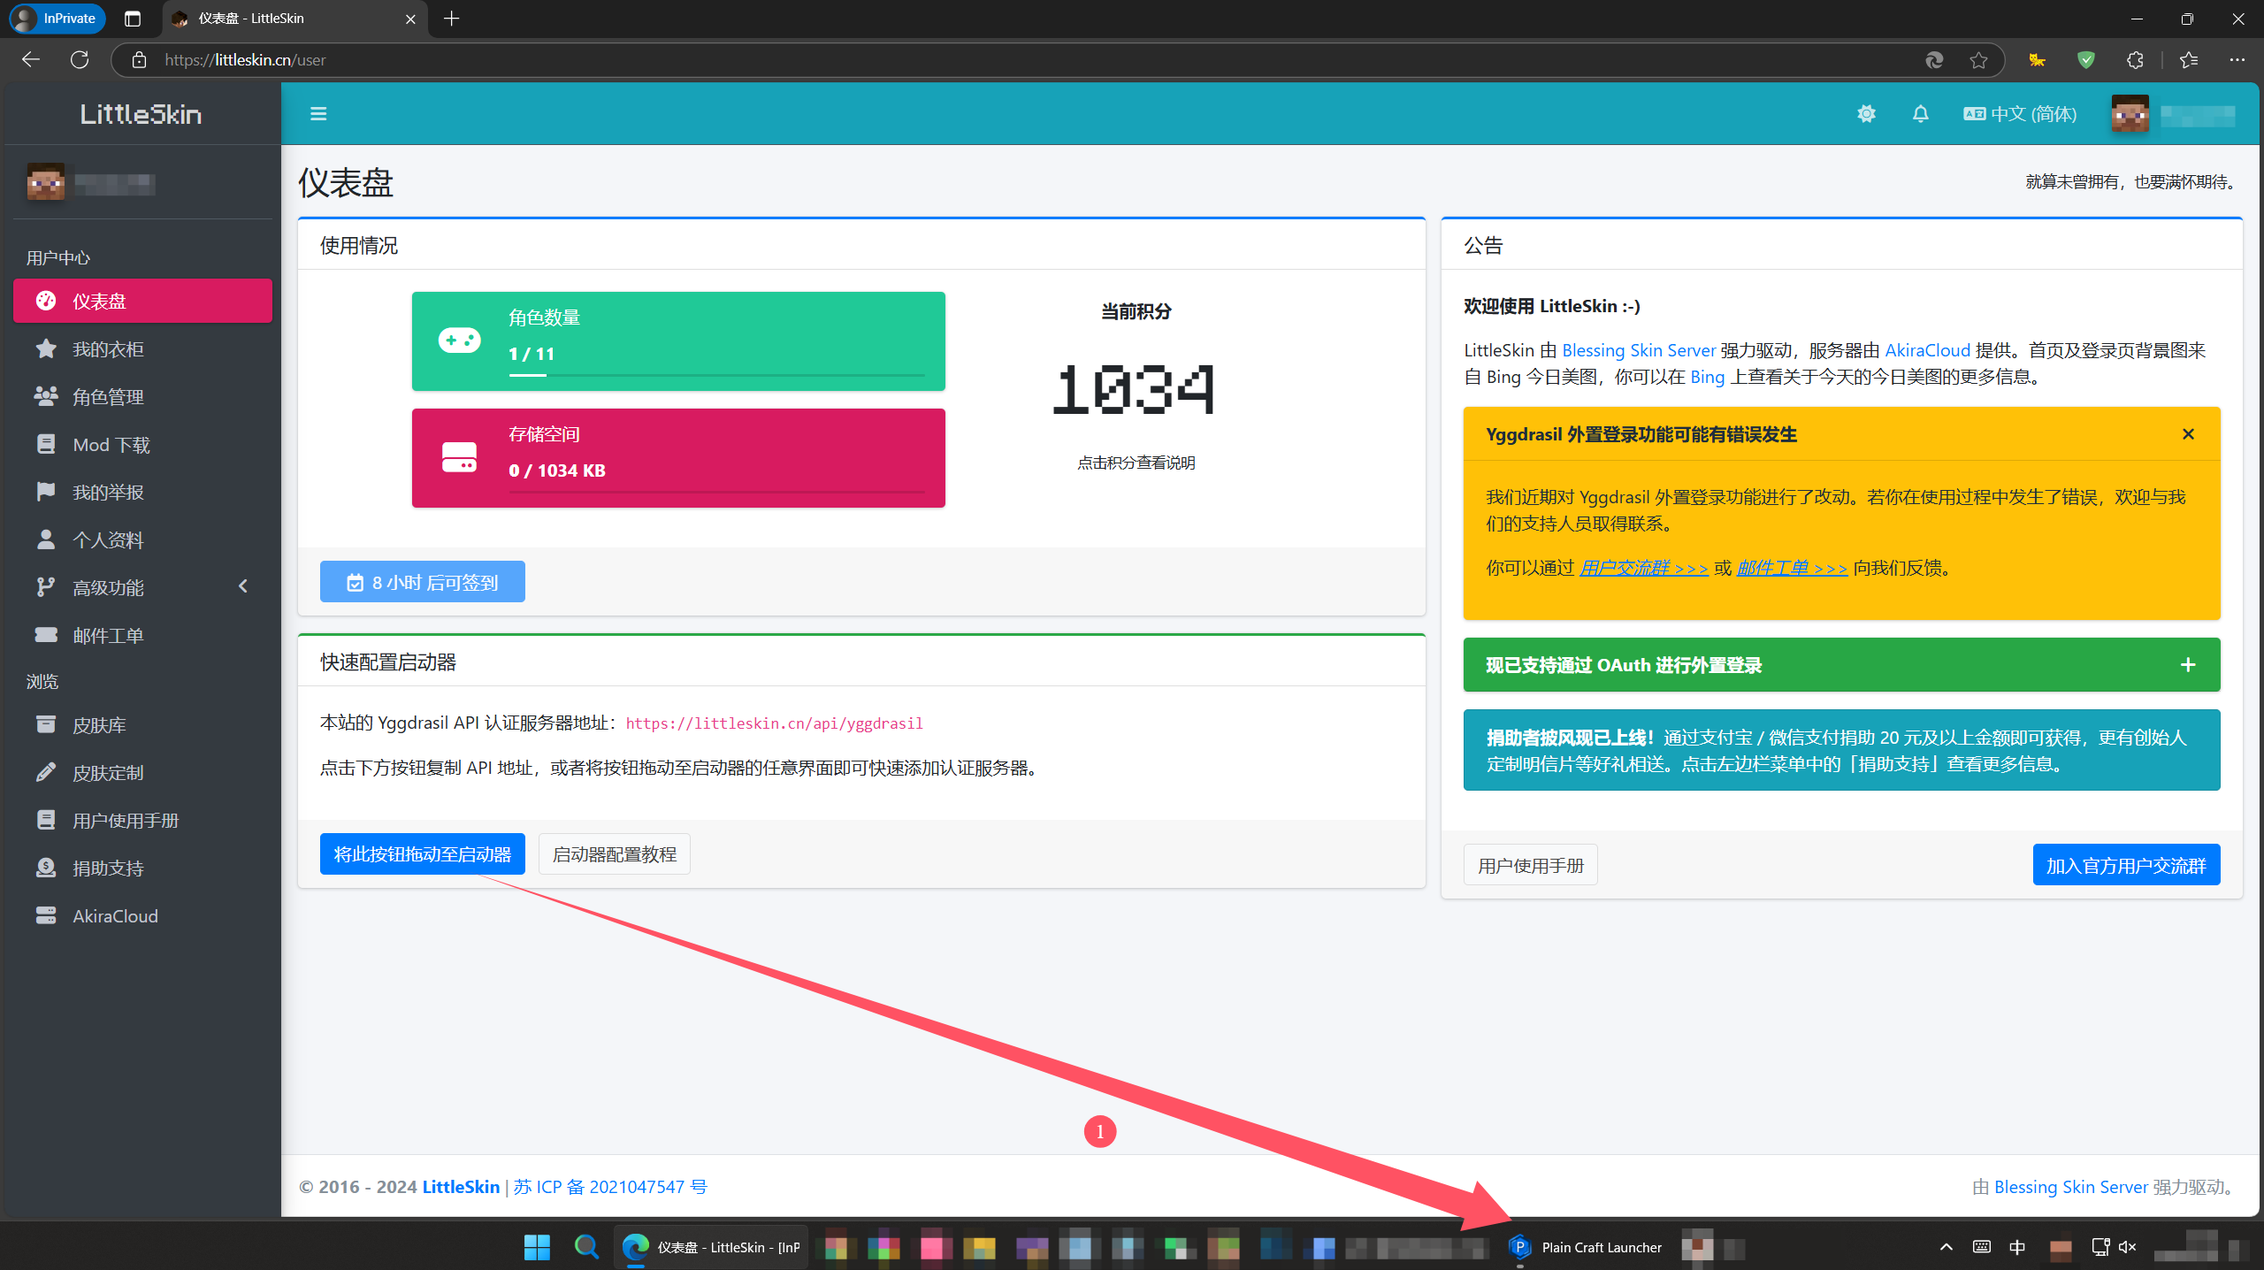
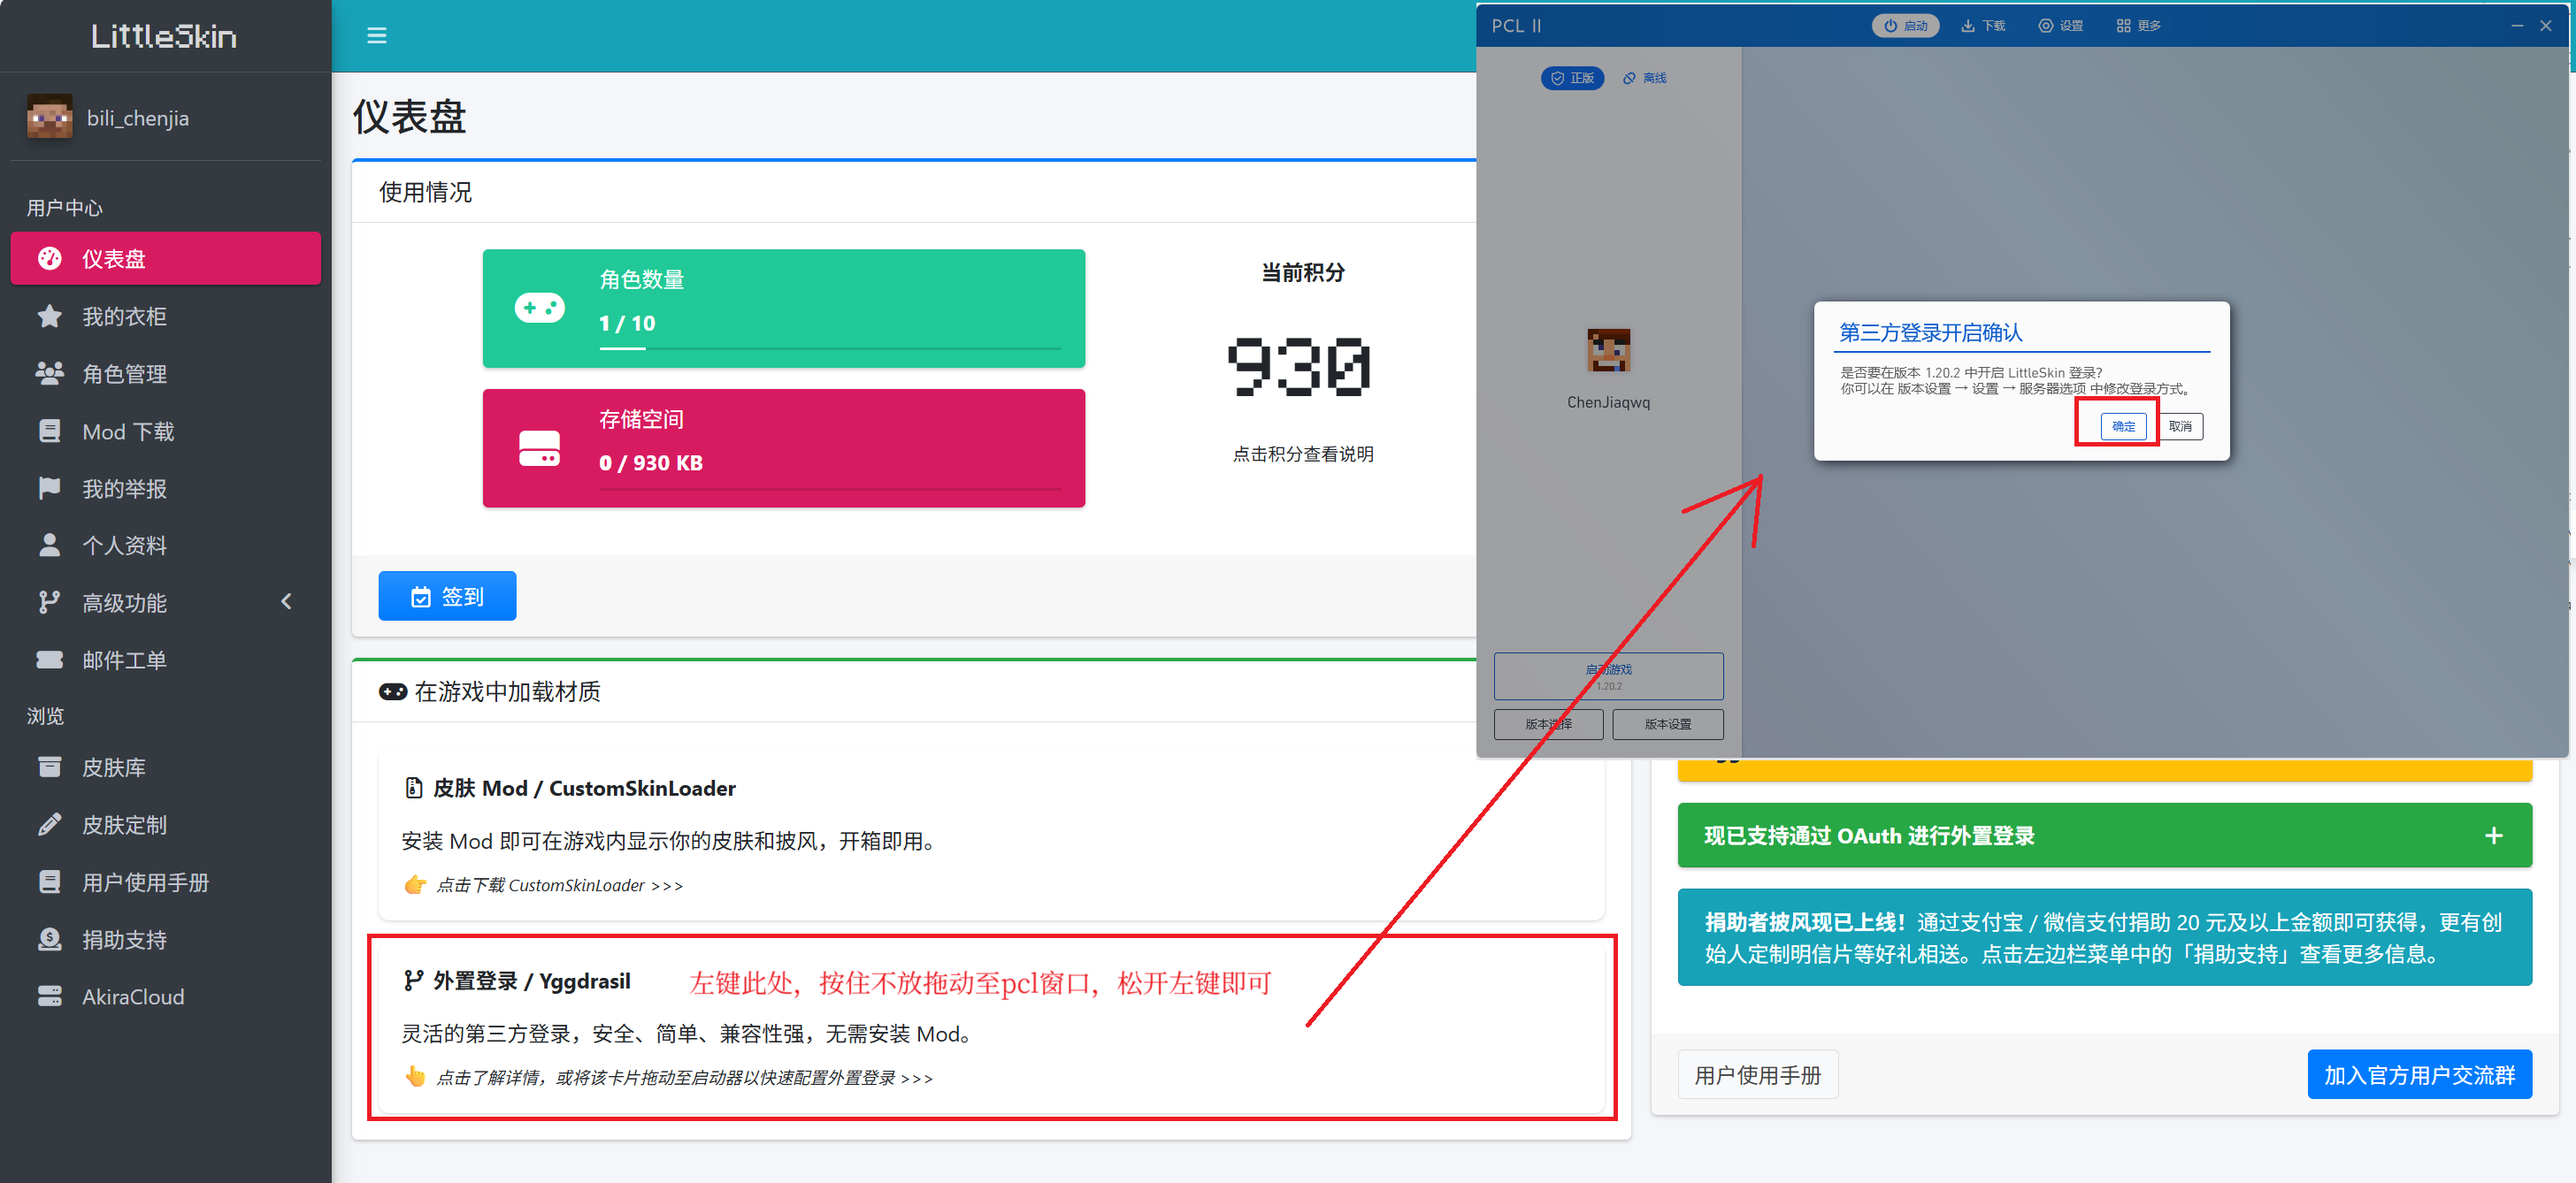
📃 docs:
1.修改新手指南中关于littleskin拖拽按钮部分的描述。
 2. 修改索引部分个别错别字
 3.修改个人主页部分文字描述

diff --git a/docs/notes/docs/03公益服务器/尘甲-服务器0基础入坑指南.md b/docs/notes/docs/03公益服务器/尘甲-服务器0基础入坑指南.md
@@ -121,11 +121,9 @@ LittleSkin 皮肤站官方帐号
 在运行一次启动器后将自动生成**两个**文件夹  
 ![示例](/img/03公益服务器/尘甲-服务器0基础入坑指南/01or08.png)
 这两个文件夹存放的是启动器数据和游戏数据，**请勿删除**  
-按住仪表盘内的【将此按钮拖入启动器】并将其拖入打开的 PCL2 主界面上  
+按住仪表盘内的【外置登录/ygggrasil】卡片并将其拖入打开的 PCL2 主界面上，并选择确定  
+（若此处提示**请先下载游戏再进行第三方登陆**请先进入**下一章节**安装游戏后再进行拖拽）
 ![示例](/img/03公益服务器/尘甲-服务器0基础入坑指南/09.png)
-（若此处提示**请先下载游戏再进行第三方登陆**请先进入**下一章节**）
-选择确定
-![示例](/img/03公益服务器/尘甲-服务器0基础入坑指南/10.png)
 
 ---
 
@@ -134,8 +132,9 @@ LittleSkin 皮肤站官方帐号
 ### 原版整合包下载
 
 :::tip 提示
-为了方便大家游玩，我们为新玩家准备了整合包，目前整合包已经上传到 Modrinth。如果您是要游玩四周目及其他原版服务器或插件服务器可以参考此章节，如果要游玩 MOD 服务器请掠过此小节  
-如果您需要游玩 MOD 服务器，可以前往 B 站查找 MOD 安装教程，但此群内若发布 MOD 服务器，都会附带整合包，可参考下一小节安装
+为了方便大家游玩，我们为新玩家准备了整合包，目前整合包已经上传到 Modrinth。  
+如果您是要游玩四周目，及其他原版服务器，或插件服务器可以参考此章节。  
+如果您需要游玩我们的 MOD 服务器，通常群内公告会说明整合包下载地址，可参考下一小节进行安装。
 :::
 
 友情链接：[点击访问 Modrinth 官网](https://modrinth.com/)

diff --git a/docs/notes/docs/01个人主页/爱玩游戏的尘甲.md b/docs/notes/docs/01个人主页/爱玩游戏的尘甲.md
@@ -12,5 +12,6 @@ permalink: /docs/personal_homepage/
 [![YOUTUBE](/img/01个人主页/youtube.png "该账号未实际运营，仅用于占位和举报盗搬视频，其他账号皆为假冒，点击前往youtube视频主页")](https://www.youtube.com/channel/UCFIcLJXRCcW2QnxC2sGbTJA)  
 
 ::: warning **关于其他平台**    
-除以上列出的视频平台外，其它个别视频平台也曾有开设账号，但已经不再运营，如有发现其他平台**仍在持续更新**的，一律不是本人！  
+除以上列出的视频平台外，其它个别视频平台也曾有开设账号，如小红书/微信视频号等，但并非主要运营平台。  
+如果有非同名的账号，一律不是本人！  
 :::

diff --git a/docs/notes/docs/00索引.md b/docs/notes/docs/00索引.md
@@ -12,7 +12,7 @@ permalink: /docs/rdl4fczv/
 ## 我可以在这里找到些什么？
 
 你可以在这里找到  
-**尘甲的个人视频主页** | **尘甲相关资源分享** | **尘甲唆发布的 MC 公益服信息** | **其他内容**
+**尘甲的个人视频主页** | **尘甲相关资源分享** | **尘甲开设的 MC 公益服信息** | **其他内容**
 
 ## 我该如何查阅此文档站的资料？
 
